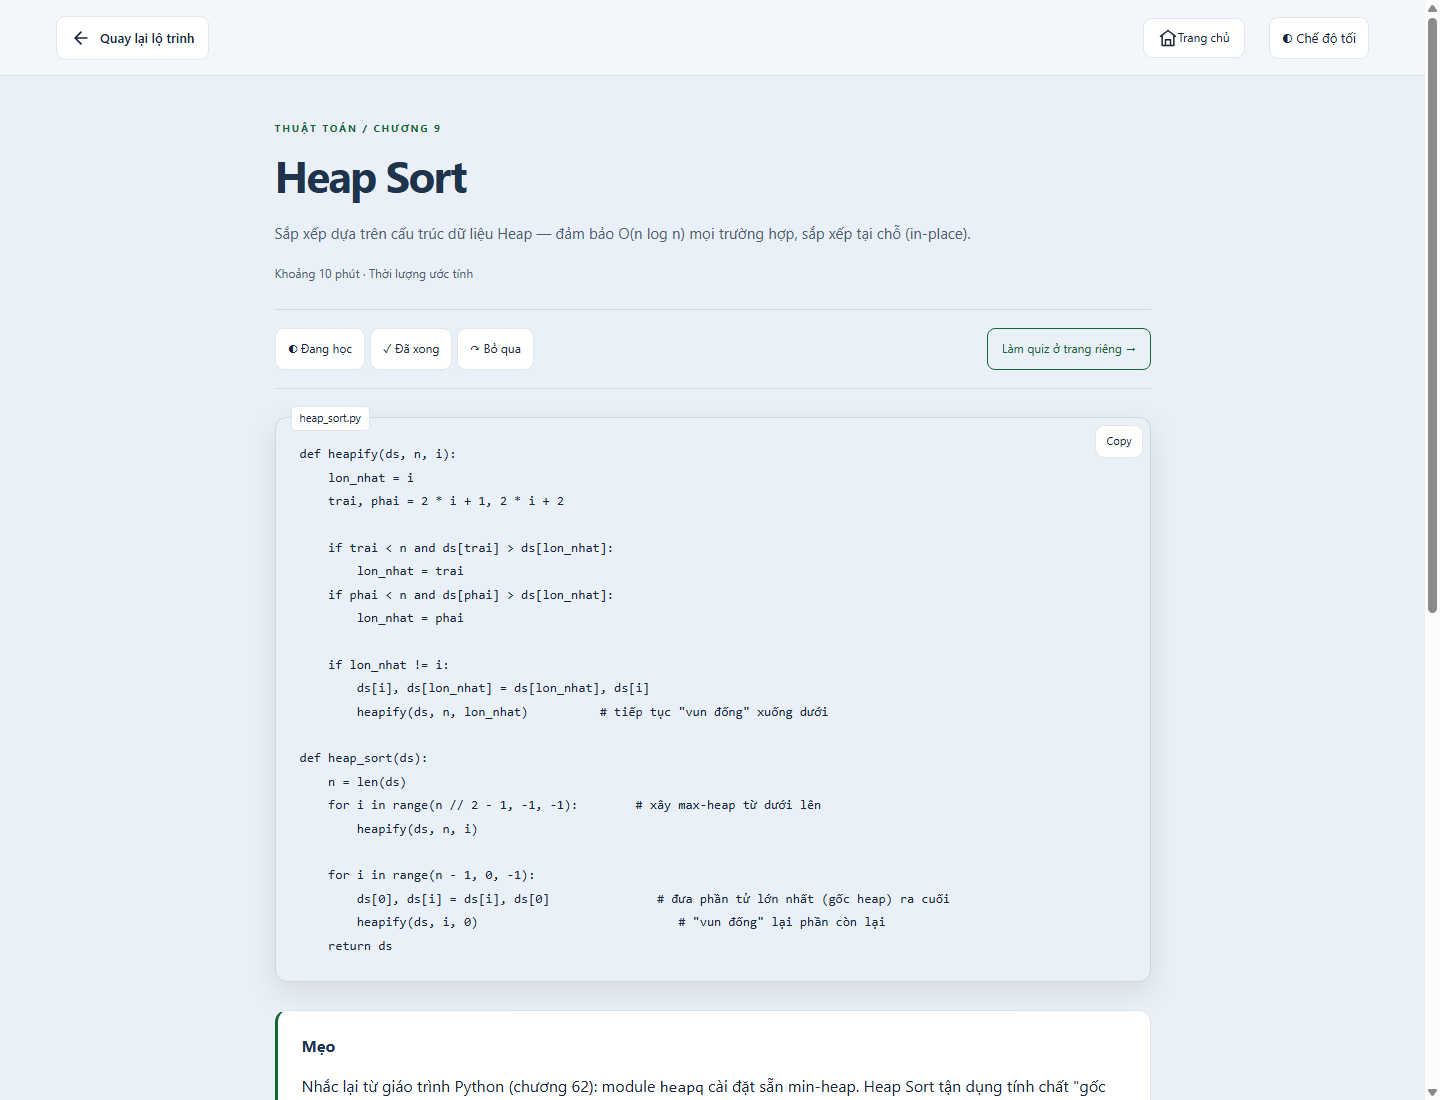
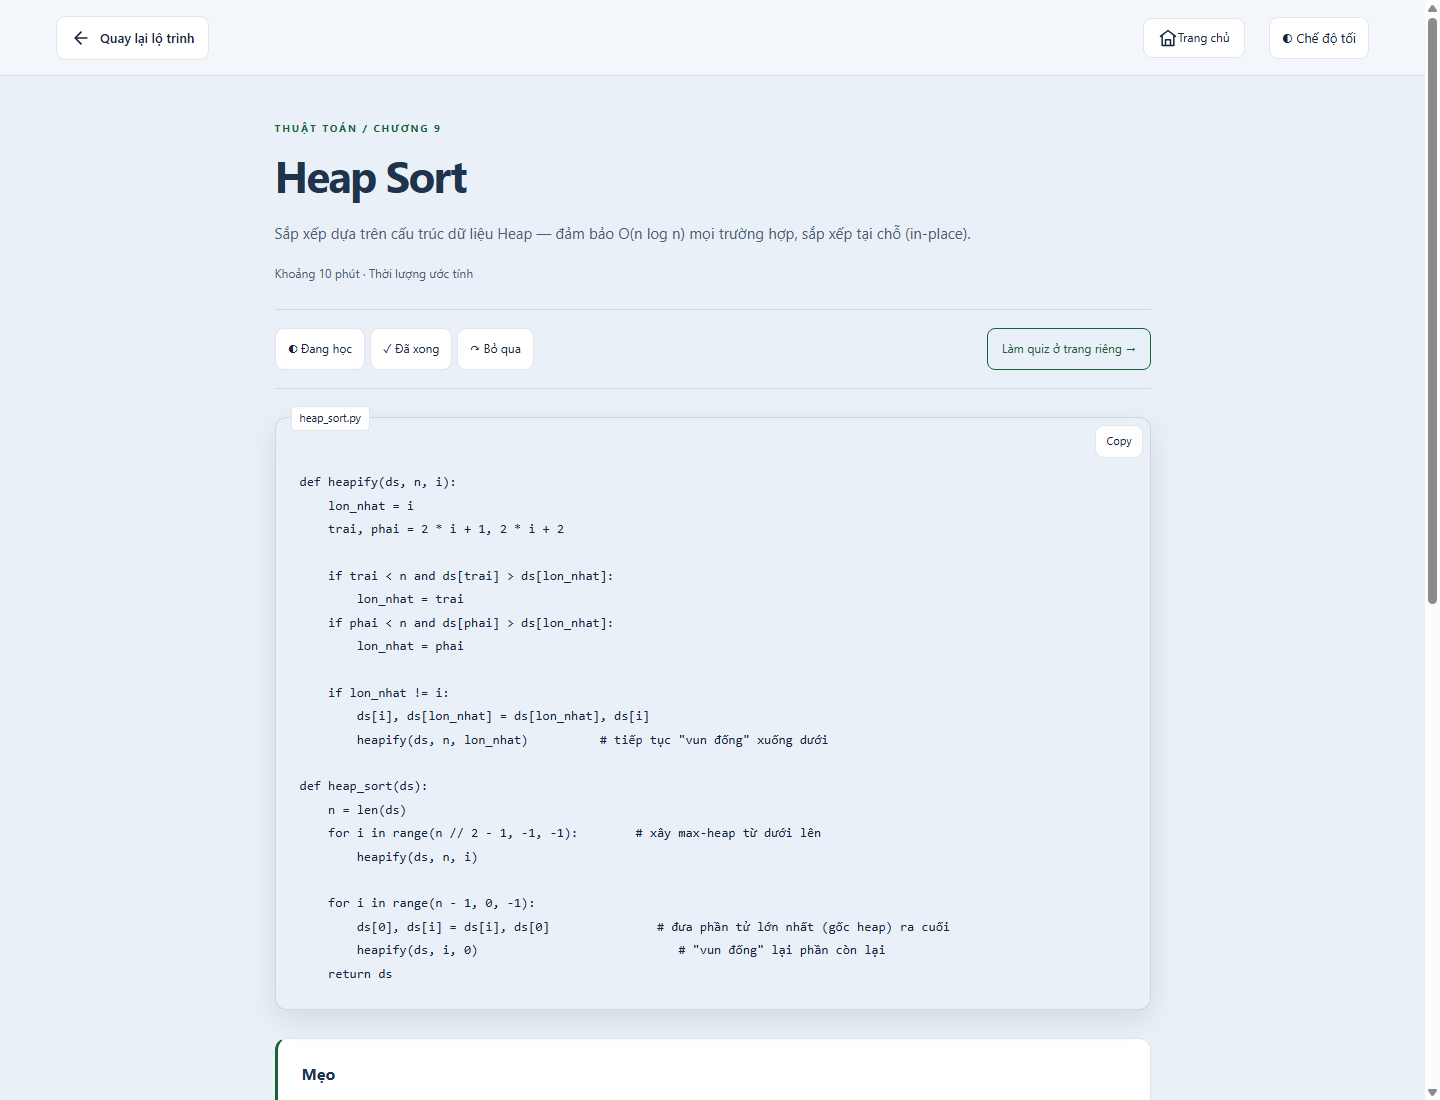
Oct 15, 2026, 12:53 PM

diff --git a/roadmap/thuat-toan.html b/roadmap/thuat-toan.html
@@ -12,7 +12,7 @@
   <header class="rm-header"><a class="rm-back" href="../courses.html"><svg viewBox="0 0 24 24" width="20" height="20" aria-hidden="true"><path d="m12 5-7 7 7 7M5 12h14" fill="none" stroke="currentColor" stroke-width="2" stroke-linecap="round" stroke-linejoin="round"/></svg><span>Quay lại</span></a><a class="rm-logo" href="../index.html">Synaptrail</a><nav aria-label="Điều hướng"><a class="rm-home" href="../index.html">⌂ Trang chủ</a><button type="button" id="rm-theme">◐ Giao diện</button></nav></header>
   <main class="rm-main" id="roadmap-content">
     <section class="rm-intro"><div><p class="rm-eyebrow">SYNAPTRAIL / LEARNING PATH 01</p><h1>Thuật toán &<br><span>Cấu trúc dữ liệu</span></h1><p class="rm-lead">Đi theo trục chính để xây nền tảng. Chọn một nhánh để mở bài học trên trang riêng.</p><div class="rm-facts"><span>23 chương</span><span>9 chặng học</span><span>Tự học theo nhịp của bạn</span></div></div><aside class="rm-progress-card" aria-label="Tiến độ lộ trình"><p class="rm-eyebrow">HÀNH TRÌNH CỦA BẠN</p><div class="rm-progress-number"><strong id="rm-percent">0%</strong><span id="rm-count">Chưa có dữ liệu</span></div><progress id="rm-progress" max="100" value="0" aria-label="Phần trăm hoàn thành"></progress><p>Chỉ tính các mục có tài liệu. “Sắp có” không ảnh hưởng tiến độ.</p><div class="rm-tools"><button type="button" id="rm-export">↓ Xuất</button><button type="button" id="rm-import">↑ Nhập</button><button type="button" id="rm-reset">Reset</button><input type="file" id="rm-file" accept=".json,application/json" aria-label="Chọn file tiến độ JSON" hidden></div></aside></section>
-    <div class="rm-info-grid"><section class="rm-info" aria-labelledby="rm-legend-title"><h2 id="rm-legend-title">Đọc lộ trình</h2><div class="rm-legend"><span><i class="rm-key required" aria-hidden="true"></i>Bắt buộc · nền đặc</span><span><i class="rm-key detail" aria-hidden="true"></i>Chi tiết · viền đôi</span><span><i class="rm-key optional" aria-hidden="true"></i>Tùy chọn · viền đứt</span></div><p class="rm-state-legend"><span>◐ Đang học</span><span>✓ Đã xong</span><span>↷ Bỏ qua</span><span>◷ Sắp có</span></p></section><section class="rm-info" aria-labelledby="rm-next-title"><h2 id="rm-next-title">Học tiếp ở đâu</h2><p>Thực hành bằng ngôn ngữ và mở rộng sang hệ thống.</p><div class="rm-next" id="rm-next"></div></section></div>
+    <div class="rm-info-grid"><section class="rm-info" aria-labelledby="rm-legend-title"><h2 id="rm-legend-title">Đọc lộ trình</h2><div class="rm-legend"><span><i class="rm-key required" aria-hidden="true"></i>Bắt buộc · nền đặc</span><span><i class="rm-key detail" aria-hidden="true"></i>Chi tiết · viền đôi</span><span><i class="rm-key optional" aria-hidden="true"></i>Tùy chọn · viền đứt</span></div><p class="rm-state-legend"><span>◐ Đang học</span><span>✓ Đã xong</span><span>↷ Bỏ qua</span><span>◷ Sắp có</span></p></section><section class="rm-info" aria-labelledby="rm-next-title"><h2 id="rm-next-title">Học tiếp ở đâu</h2><p>Thực hành bằng ngôn ngữ và mở rộng sang hệ thống.</p><div class="rm-next" id="rm-next"><noscript><a href="../cpp/index.html">C++</a><a href="../java/index.html">Java</a><a href="../python/index.html">Python</a><a href="../system-design/index.html">System Design</a></noscript></div></section></div>
     <p id="rm-message" role="status" aria-live="polite"></p>
     <section class="rm-map-section" aria-label="Sơ đồ lộ trình"><div class="rm-map" id="rm-map"><svg class="rm-connections" id="rm-connections" aria-hidden="true"></svg><ol class="rm-stages" id="rm-stages"></ol></div><noscript><p>Chọn bài học từ danh sách khi JavaScript đang tắt.</p><!-- fallback:start -->
 <ol class="fallback-list"><li><h2>Nhập môn &amp; độ phức tạp</h2><p>Định nghĩa, tính chất, và tại sao việc học thuật toán quan trọng hơn việc học riêng một ngôn ngữ lập trình.</p><ol><li id="chapter01"><a href="../thuat-toan/chapter01.html">Thuật toán là gì? →</a></li><li id="chapter02"><a href="../thuat-toan/chapter02.html">Big O Notation →</a></li><li id="chapter03"><a href="../thuat-toan/chapter03.html">Phân tích độ phức tạp →</a></li><li id="chapter04"><a href="../thuat-toan/chapter04.html">Độ phức tạp không gian (Space Complexity) →</a></li></ol></li><li><h2>Sắp xếp</h2><p>Hai thuật toán sắp xếp đơn giản nhất — dễ hiểu nhưng kém hiệu quả, chủ yếu mang tính giáo dục.</p><ol><li id="chapter05"><a href="../thuat-toan/chapter05.html">Bubble Sort &amp; Selection Sort →</a></li><li id="chapter06"><a href="../thuat-toan/chapter06.html">Insertion Sort →</a></li><li id="chapter07"><a href="../thuat-toan/chapter07.html">Merge Sort →</a></li><li id="chapter08"><a href="../thuat-toan/chapter08.html">Quick Sort →</a></li><li id="chapter09"><a href="../thuat-toan/chapter09.html">Heap Sort →</a></li><li id="chapter10"><a href="../thuat-toan/chapter10.html">Counting Sort &amp; Radix Sort →</a></li><li id="chapter11"><a href="../thuat-toan/chapter11.html">So sánh &amp; lựa chọn thuật toán sắp xếp →</a></li></ol></li><li><h2>Tìm kiếm</h2><p>Thuật toán tìm kiếm đơn giản nhất — duyệt tuần tự từng phần tử cho tới khi tìm thấy.</p><ol><li id="chapter12"><a href="../thuat-toan/chapter12.html">Linear Search →</a></li><li id="chapter13"><a href="../thuat-toan/chapter13.html">Binary Search →</a></li><li id="chapter14"><a href="../thuat-toan/chapter14.html">Biến thể Binary Search →</a></li><li id="chapter15"><a href="../thuat-toan/chapter15.html">Hashing &amp; Tra cứu O(1) →</a></li></ol></li><li><h2>Cấu trúc dữ liệu tuyến tính</h2><p>Hai cách cơ bản nhất để lưu trữ một dãy phần tử — mỗi cách có đánh đổi (trade-off) riêng.</p><ol><li id="chapter16"><a href="../thuat-toan/chapter16.html">Array vs Linked List →</a></li><li id="chapter17"><a href="../thuat-toan/chapter17.html">Cài đặt Linked List →</a></li><li id="chapter18"><a href="../thuat-toan/chapter18.html">Stack — Ứng dụng thực tế →</a></li><li id="chapter19"><a href="../thuat-toan/chapter19.html">Queue &amp; Deque →</a></li></ol></li><li><h2>Cây</h2><p>Cấu trúc dữ liệu phân cấp — mỗi node có tối đa 2 con. Nền tảng cho BST, Heap, và nhiều cấu trúc nâng cao khác.</p><ol><li id="chapter20"><a href="../thuat-toan/chapter20.html">Binary Tree &amp; Duyệt cây →</a></li><li id="chapter21"><a href="../thuat-toan/chapter21.html">Binary Search Tree (BST) →</a></li><li id="chapter22"><a href="../thuat-toan/chapter22.html">Cây cân bằng (AVL) →</a></li><li id="chapter23"><a href="../thuat-toan/chapter23.html">Heap &amp; Priority Queue →</a></li></ol></li><li><h2>Đồ thị</h2><p>Chưa có chương riêng về đồ thị trong khóa học hiện tại. · Sắp có</p><ol><li id="bfs-dfs"><strong>BFS / DFS · Sắp có</strong></li><li id="dijkstra"><strong>Dijkstra · Sắp có</strong></li><li id="union-find"><strong>Union-Find · Sắp có</strong></li></ol></li><li><h2>Đệ quy &amp; Quy hoạch động</h2><p>Chưa có chương riêng về quy hoạch động. Đệ quy đã xuất hiện trong Merge Sort và duyệt cây. · Sắp có</p><ol></ol></li><li><h2>Tham lam, Chia để trị, Backtracking</h2><p>Chưa có chương riêng cho nhóm chiến lược này. Merge Sort hiện giới thiệu ý tưởng chia để trị. · Sắp có</p><ol></ol></li><li><h2>Luyện tập</h2><p>Ôn tập và thực hành với các tài nguyên đang có của Synaptrail.</p><ol><li id="bai-tap"><a href="../Quiz_and_other/exercises.html">Bài tập thực hành →</a></li><li id="quiz-tong-hop"><a href="../Quiz_and_other/quiz-tong-hop.html">Quiz tổng hợp →</a></li><li id="cheatsheet"><a href="../Quiz_and_other/cheatsheet.html">Cheatsheet tra cứu →</a></li></ol></li></ol>
